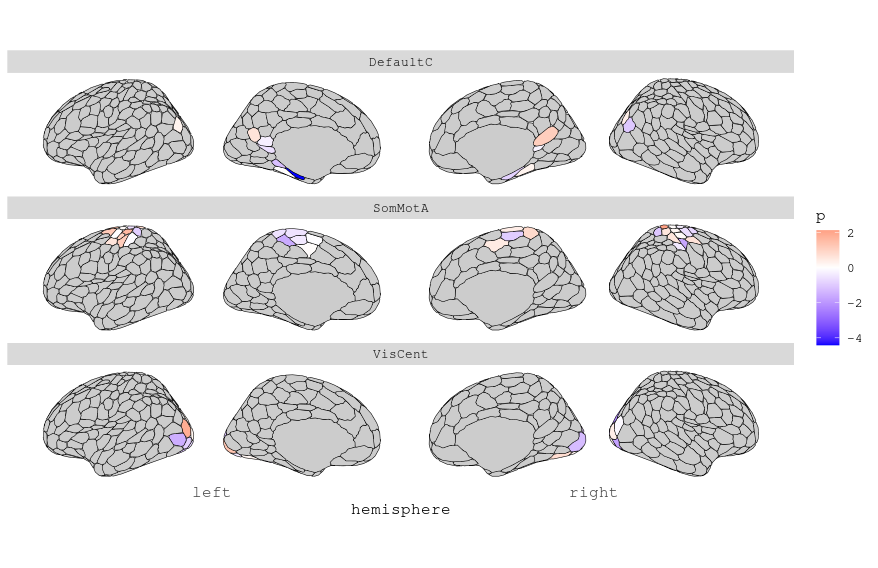
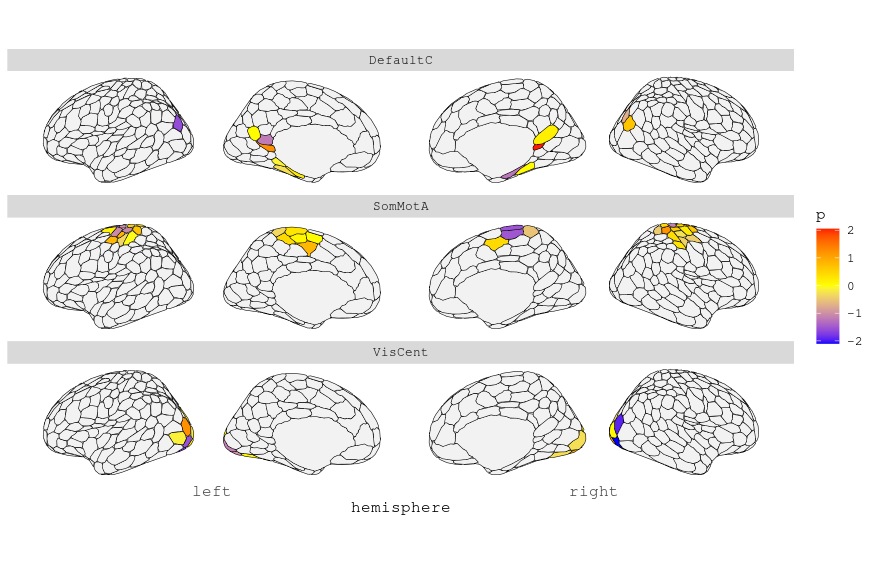
Update CortexPlot3d

diff --git a/README.md b/README.md
@@ -10,9 +10,9 @@ For example, an interactive 3D surface plot can be generated as follows:
 data <- LoadAtlasInformation('schaefer17_400')
 data$p <- rnorm(nrow(data))
 
-CortexPlot3d(data, atlas = schaefer17_400, surf = 'inflated', hemi = 'right', 
+CortexPlot3d(data, atlas = schaefer17_400_3d, surf = 'inflated', hemi = 'right', 
              fill = 'p', palette = 'r_RdBu', ncolor = 9, limits = NULL, 
-             camera = 'right lateral')
+             camera = 'right lateral', show.legend = FALSE)
 ```
 
 <img src='man/figures/surfplot3d.png' align="center" height="300" />
@@ -24,8 +24,8 @@ subnet.data <- subset(data, Network %in% c('VisCent', 'SomMotA', 'DefaultC'))
 CortexPlot2d(subnet.data, atlas = schaefer17_400, fill = 'p', groupby = 'Network', 
              color = 'black', size = .2) +
     facet_wrap(~ Network, ncol = 1) +
-    scale_fill_gradient2(low = 'blue', mid = 'white', high = 'red', 
-                         midpoint = 0, na.value = grey(.8)) 
+    scale_fill_gradient2(low = 'blue', mid = 'yellow', high = 'red', 
+                         midpoint = 0, na.value = grey(.95)) 
 ```
 
 <img src='man/figures/surfplot2d.png' align="center" height="500" />
